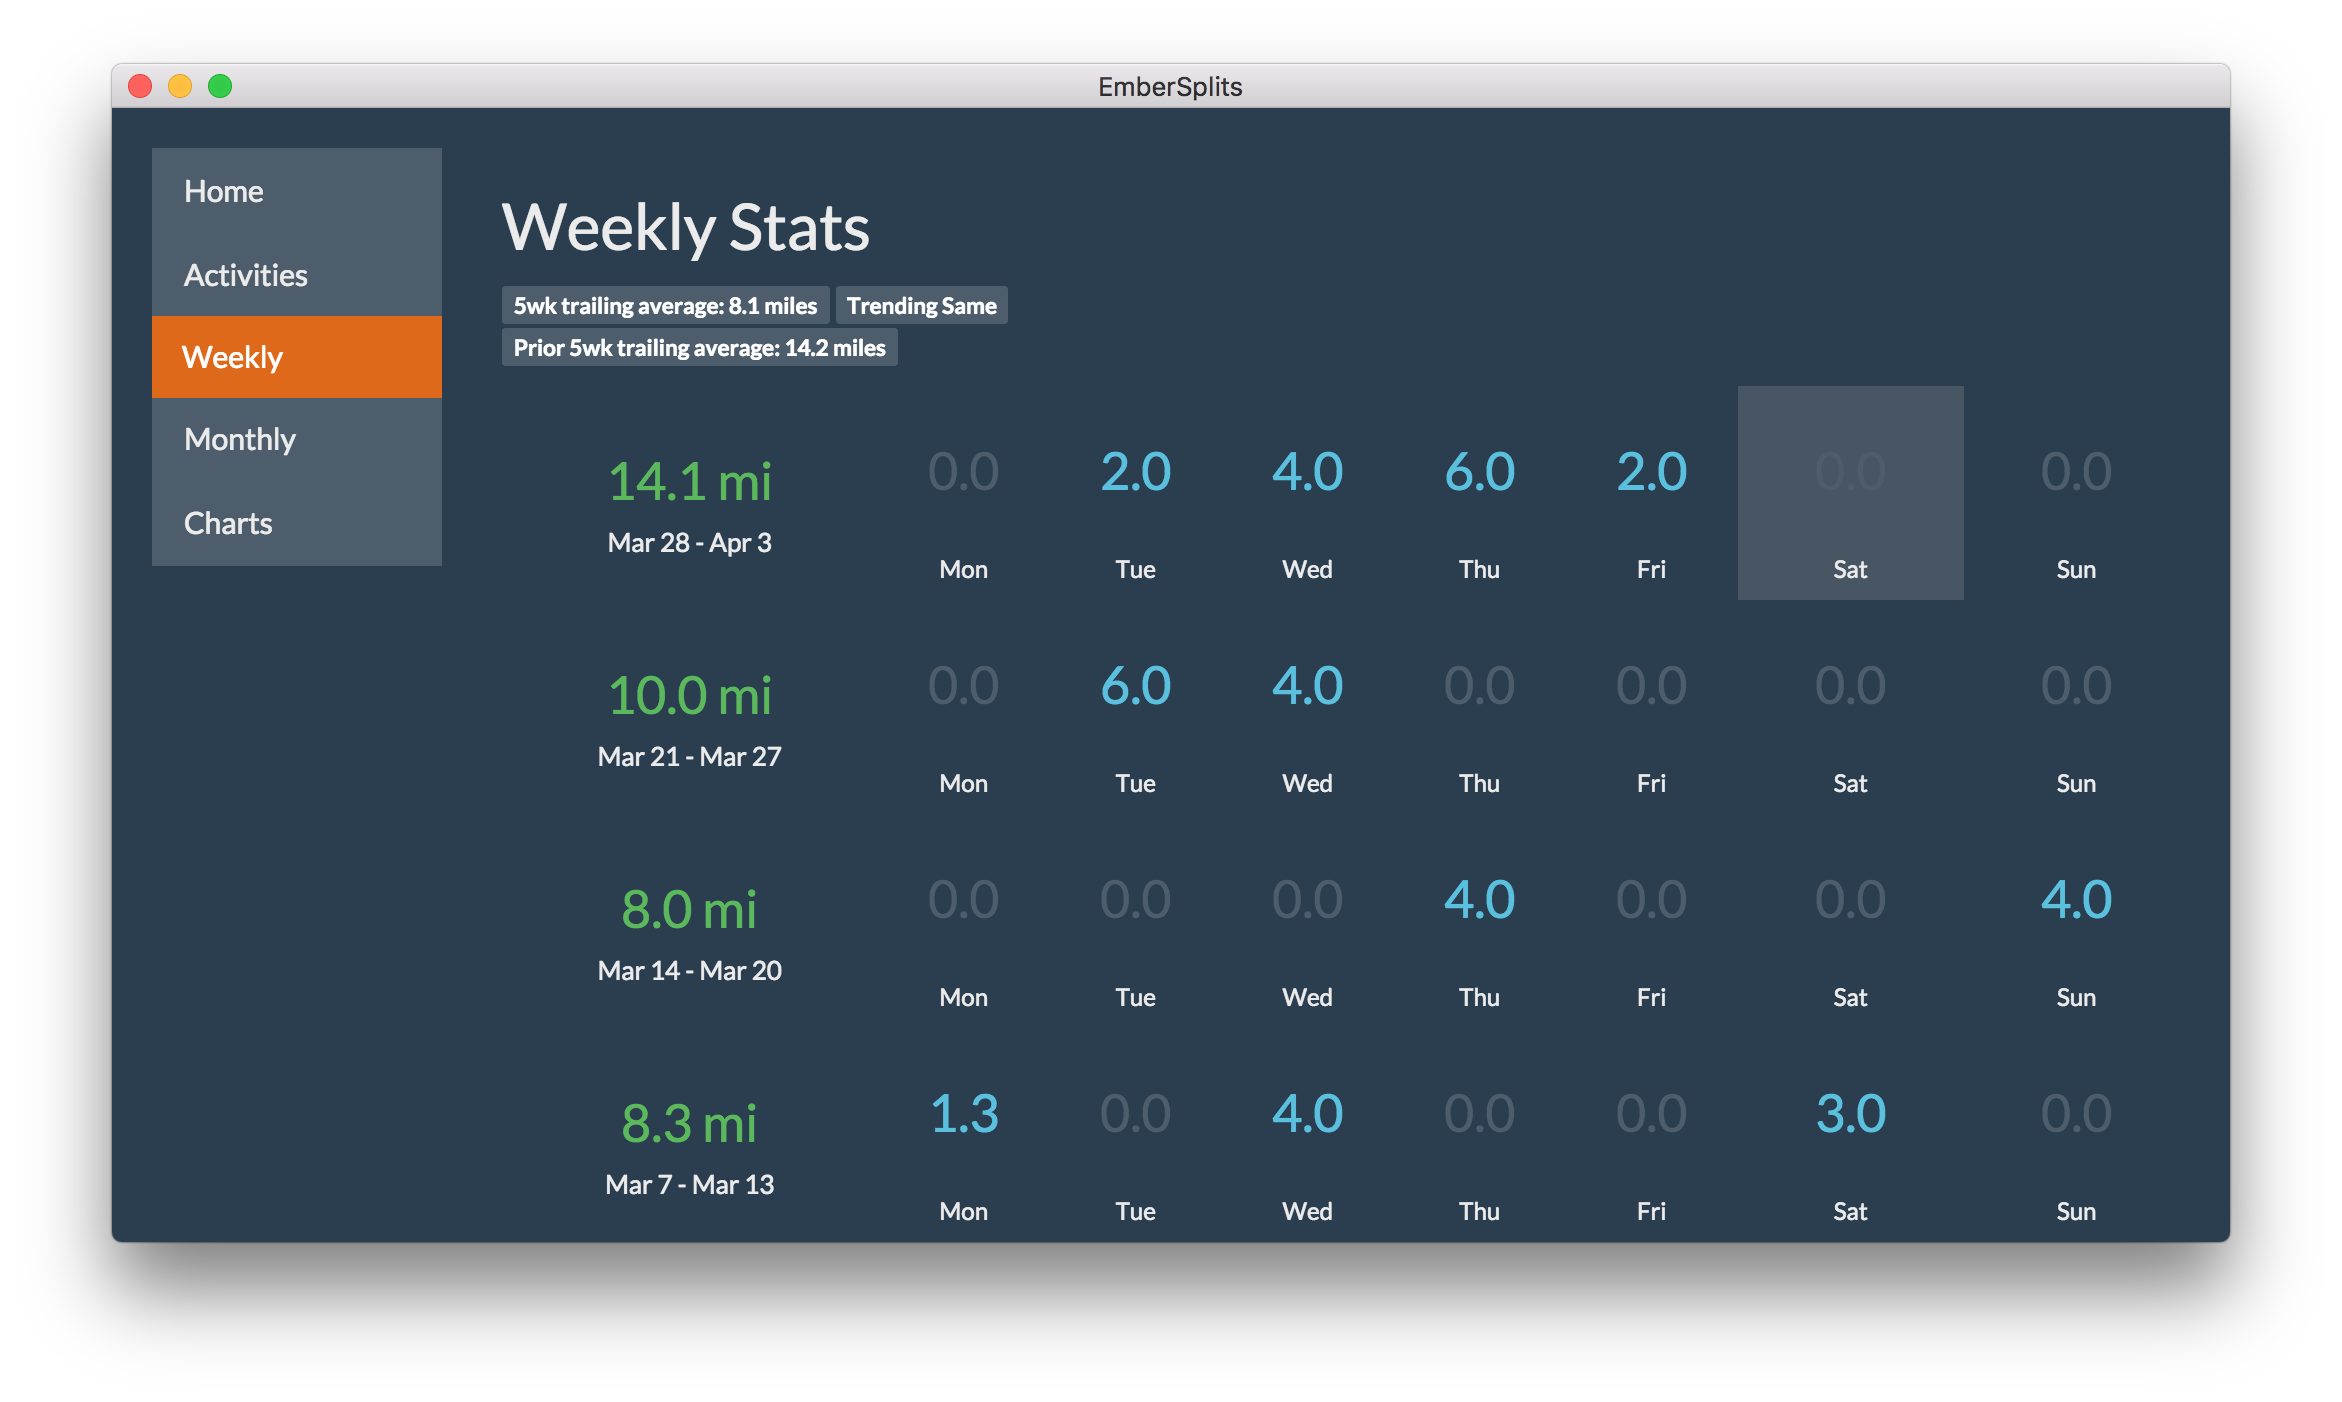
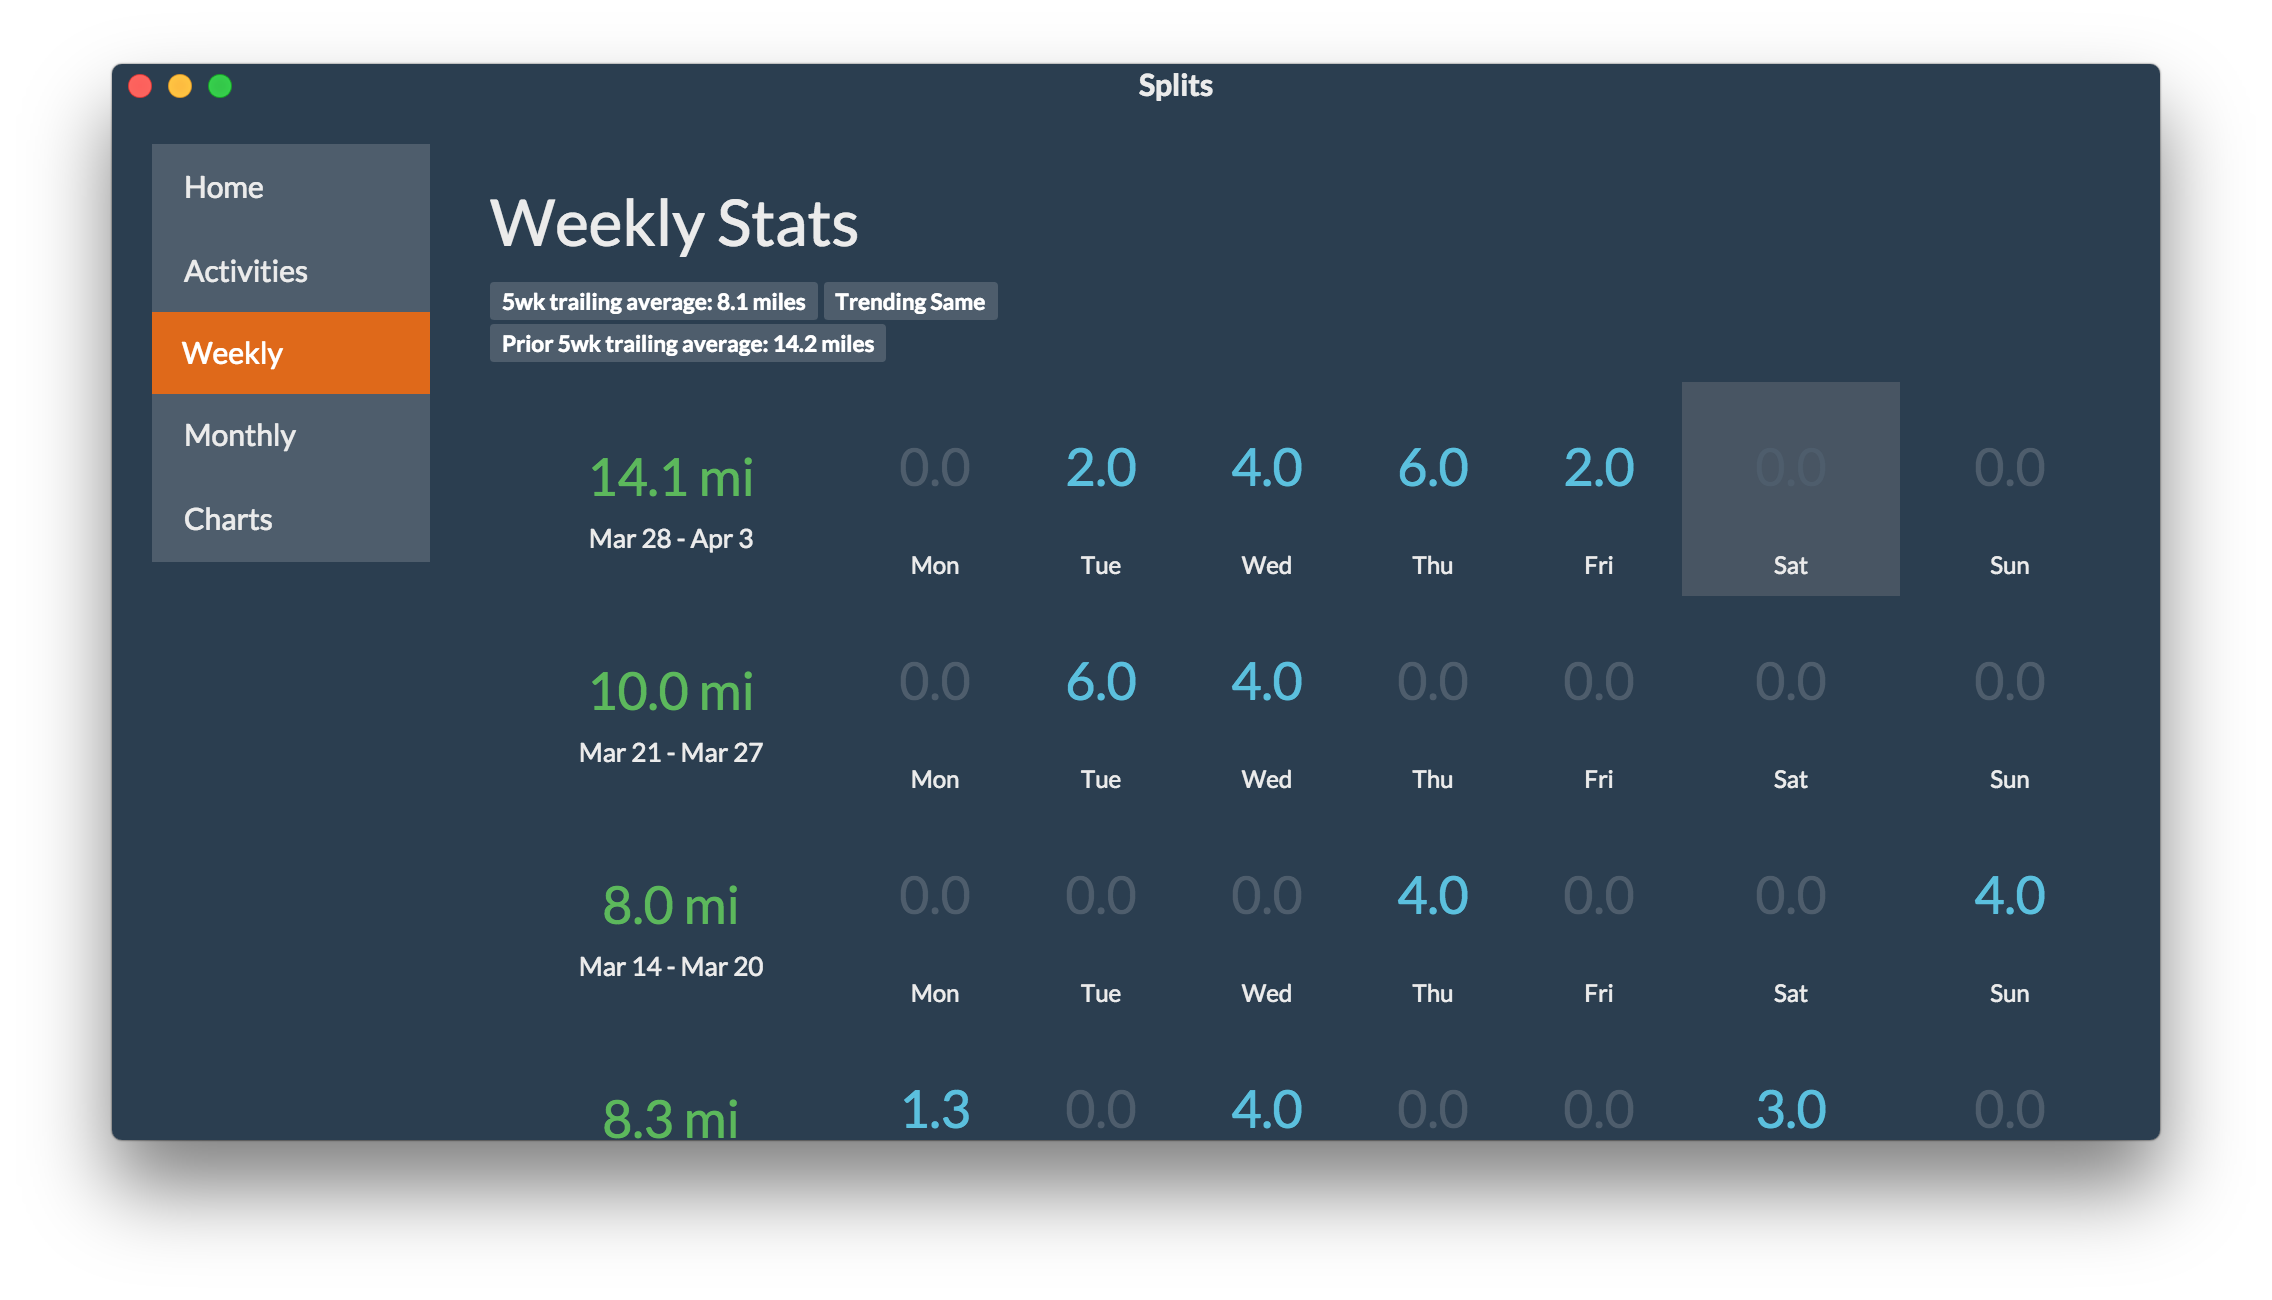
Updates the window to be frameless, adds a window title, and updates screenshots.

diff --git a/main.js b/main.js
@@ -7,53 +7,54 @@ var dialog = require('dialog');
 var mainWindow = null;
 
 var template = [{
-  label: 'File',
-  submenu: [{
-    label: 'Open',
-    accelerator: 'Command+O',
-    click: function() {
-      dialog.showOpenDialog(mainWindow, {
-        properties: ['openFile', 'multiSelections', 'createDirectory']
-      }, onFileOpen);
-    }
-  }, {
-    label: 'Quit',
-    accelerator: 'Command+Q',
-    click: function() {
-      app.quit();
-    }
-  }]
+    label: 'File',
+    submenu: [{
+        label: 'Open',
+        accelerator: 'Command+O',
+        click: function() {
+            dialog.showOpenDialog(mainWindow, {
+                properties: ['openFile', 'multiSelections', 'createDirectory']
+            }, onFileOpen);
+        }
+    }, {
+        label: 'Quit',
+        accelerator: 'Command+Q',
+        click: function() {
+            app.quit();
+        }
+    }]
 }];
 
 app.on('window-all-closed', function onWindowAllClosed() {
-  app.quit();
+    app.quit();
 });
 
 app.on('ready', function onReady() {
-  mainWindow = new BrowserWindow({
-    width: 1024,
-    height: 600
-  });
+    mainWindow = new BrowserWindow({
+        width: 1024,
+        height: 600,
+        titleBarStyle: 'hidden'
+    });
 
-  var menu = Menu.buildFromTemplate(template);
-  Menu.setApplicationMenu(menu);
+    var menu = Menu.buildFromTemplate(template);
+    Menu.setApplicationMenu(menu);
 
-  delete mainWindow.module;
+    delete mainWindow.module;
 
-  if (process.env.ELECTRON_ENV === 'development') {
-    mainWindow.openDevTools();
-    mainWindow.loadURL('http://localhost:5000');
-  } else {
-    mainWindow.loadURL('file://' + __dirname + '/dist/index.html');
-  }
+    if (process.env.ELECTRON_ENV === 'development') {
+        mainWindow.openDevTools();
+        mainWindow.loadURL('http://localhost:5000');
+    } else {
+        mainWindow.loadURL('file://' + __dirname + '/dist/index.html');
+    }
 
-  mainWindow.on('closed', function onClosed() {
-    mainWindow = null;
-  });
+    mainWindow.on('closed', function onClosed() {
+        mainWindow = null;
+    });
 });
 
 function onFileOpen(files) {
-  if (files && files.length) {
-    mainWindow.webContents.send('filesOpened', JSON.stringify(files));
-  }
+    if (files && files.length) {
+        mainWindow.webContents.send('filesOpened', JSON.stringify(files));
+    }
 }

diff --git a/app/styles/app.css b/app/styles/app.css
@@ -1,5 +1,15 @@
 /* Put your CSS here */
 
+body {
+    padding-top: 20px;
+}
+#windowTitle {
+    position: fixed;
+    width: 100%;
+    text-align: center;
+    top: 0;
+    font-weight: bold;
+}
 .ember-application {
     margin: 20px;
 }
